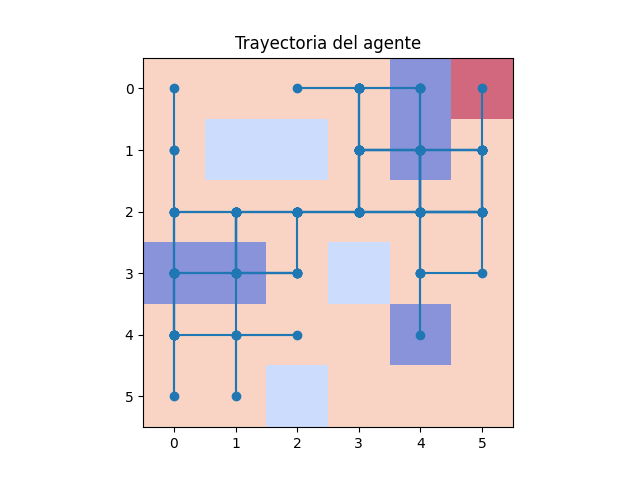
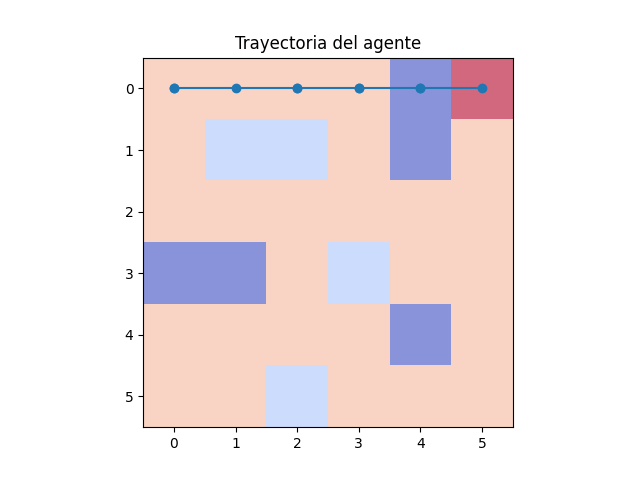
Cambios en gridworld_practica.html

diff --git a/templates/gridworld_practica.html b/templates/gridworld_practica.html
@@ -14,7 +14,6 @@
 
     <div class="container mt-10 px-0">
 
-        <!-- MENÚ DESPLEGABLE (NO SE CAMBIA) -->
         <div class="dropdown mb-3">
             <button class="btn btn-secondary dropdown-toggle" type="button" data-bs-toggle="dropdown" aria-expanded="false">
                 A12 - APRENDIZAJE POR REFUERZO
@@ -25,29 +24,26 @@
             </ul>
         </div>
 
-        <!-- 🔵 ZONA DONDE VA LA INTERFAZ DEL USUARIO -->
         <div class="card p-4 bg-dark text-white border border-light">
 
-            <h3 class="mb-3">Simulación GridWorld (Q-Learning)</h3>
-
-            <!-- control de episodios -->
+            <h3 class="mb-3">Ejercicio practico</h3>
+            <h5>Una empresa de logística quiere que un robot móvil encuentre la ruta más eficiente para recoger productos dentro de un almacén dividido en cuadrículas.
+                Implementa un GridWorld donde cada celda representa un pasillo del almacén, algunos tienen obstáculos (estantes) y otros tienen penalizaciones por congestión. 
+                Entrena un agente con Q-Learning para que aprenda la ruta óptima hacia la zona de despacho con el menor tiempo posible.</h5>
+            <h3 class="mb-3">Simulación GridWorld</h3>
             <label class="form-label">Número de episodios:</label>
             <input id="episodios" type="number" class="form-control mb-3" value="300">
 
             <button class="btn btn-success w-100 mb-2" onclick="train()">Entrenar Agente</button>
             <button class="btn btn-primary w-100 mb-2" onclick="testAgent()">Probar Agente</button>
-            <button class="btn btn-warning w-100 mb-2" onclick="resetAgent()">Reiniciar Agente</button>
+            <button class="btn btn-danger w-100 mb-2" onclick="resetAgent()">Reiniciar Agente</button>
 
             <hr>
-
-            <!-- indicadores -->
-            <p><b>Episodios:</b> <span id="lbl_ep">--</span></p>
-            <p><b>Epsilon:</b> <span id="lbl_epsilon">--</span></p>
-            <p><b>Recompensa Promedio:</b> <span id="lbl_prom">--</span></p>
-
+                <p><b>Episodios:</b> <span id="lbl_ep">--</span></p>
+                <p><b>Epsilon:</b> <span id="lbl_epsilon">--</span></p>
+                <p><b>Recompensa Promedio:</b> <span id="lbl_prom">--</span></p>
             <hr>
 
-            <!-- lista de recompensas -->
             <h5>Historial de Recompensas</h5>
             <div style="max-height: 250px; overflow-y: auto;" class="border rounded p-2 bg-light">
                 <ul id="lista_recompensas" class="list-group text-dark"></ul>
@@ -55,16 +51,13 @@
 
             <hr>
 
-            <!-- imagen de la trayectoria -->
             <h5>Trayectoria del agente</h5>
             <img id="img_trayectoria" src="" class="img-fluid border border-light">
 
         </div>
-        <!-- FIN ZONA DE LA INTERFAZ -->
 
     </div>
 
-    <!-- BOTÓN DE VOLVER AL INICIO (NO SE CAMBIA) -->
     <a href="/" class="btn btn-secondary position-fixed bottom-0 start-0 m-3">
         VOLVER AL INICIO
     </a>
